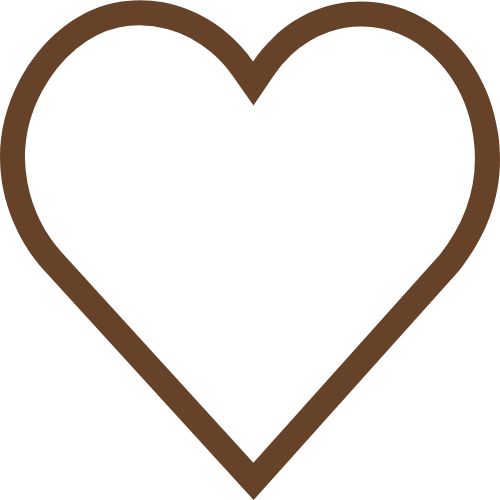
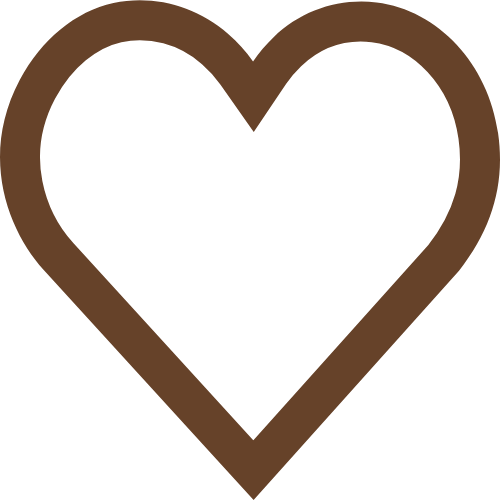
Add functionality to be able to like quotes

Changed region(s): [[0.03, 0.03, 0.96, 0.93]]

diff --git a/script.js b/script.js
@@ -1,8 +1,31 @@
-import { quotes, Quote } from "./data.js";
+import { quotes, Quote, favorites } from "./data.js";
 
-document.querySelector('.quotes-button').addEventListener('click', async () => {
-  const quoteObject = await renderQuote();
-  document.querySelector('.quotes-container').innerHTML = `${quoteObject.content} - ${quoteObject.author}`
+let currentQuoteObject;
+const generateQuoteButton = document.querySelector('.quotes-button');
+const likeButton = document.querySelector(".like-button-container");
+const quotesContainer = document.querySelector('.quotes-container');
+
+generateQuoteButton.addEventListener('click', async () => {
+  currentQuoteObject = await renderQuote();
+  quotesContainer.innerHTML = `${currentQuoteObject.content} - ${currentQuoteObject.author}`
+  likeButton.innerHTML = `<img src="images/empty-heart.png" alt="like-button" class="like-button">`
+
+  favorites.forEach((favoriteQuote) => {
+    if (currentQuoteObject.content == favoriteQuote.content && currentQuoteObject.author == favoriteQuote.author) {
+      likeButton.innerHTML = `<img src="images/full-heart.png" alt="like-button" class="like-button">`
+      currentQuoteObject.isFavorite = true;
+    }
+  })
+})
+
+likeButton.addEventListener('click', () => {
+  currentQuoteObject.toggleLike()
+  if (currentQuoteObject.isFavorite){
+    likeButton.innerHTML = `<img src="images/full-heart.png" alt="like-button" class="like-button">`
+  } else {
+    likeButton.innerHTML = `<img src="images/empty-heart.png" alt="like-button" class="like-button">`
+  }
+  console.log(favorites)
 })
 
 async function renderQuote() {
@@ -10,8 +33,8 @@ async function renderQuote() {
   if(!APIQuote.errorMessage){
     return new Quote(APIQuote)
   }
-  const randomNumber = Math.floor(Math.random() * quotes.length)
-  return quotes[randomNumber]
+  const randomIndex = Math.floor(Math.random() * quotes.length)
+  return quotes[randomIndex]
 }
 
 async function fetchQuote(){

diff --git a/data.js b/data.js
@@ -11,13 +11,20 @@ export class Quote {
   renderQuote() {
     return {
       content: this.content,
-      author: this.author
+      author: this.author,
+      isFavorite: this.isFavorite
     }
   } 
  
   toggleLike() {
-   this.isFavorite ? this.removeFromFavorites(favorites) : this.addToFavorites(favorites)
-   this.isFavorite = !this.isFavorite
+   if (this.isFavorite){
+    this.isFavorite = false;
+    this.removeFromFavorites(favorites);
+   } else {
+    this.isFavorite = true;
+    this.addToFavorites(favorites)
+   }
+   localStorage.setItem('favorites', JSON.stringify(favorites))
   }
  
   addToFavorites(favorites) {
@@ -32,7 +39,7 @@ export class Quote {
   }
  }
  
- export const favorites = []
+ export const favorites = JSON.parse(localStorage.getItem('favorites')) || []
  
  export const quotes = [
   {

diff --git a/index.html b/index.html
@@ -11,7 +11,6 @@
   <div class="interaction-container">
     <button class="quotes-button">Generate</button>
     <div class="like-button-container">
-      <img src="images/Logo Design.png" alt="like-button" class="like-button">
     </div>
   </div>
   <script type="module" src="script.js"></script>
